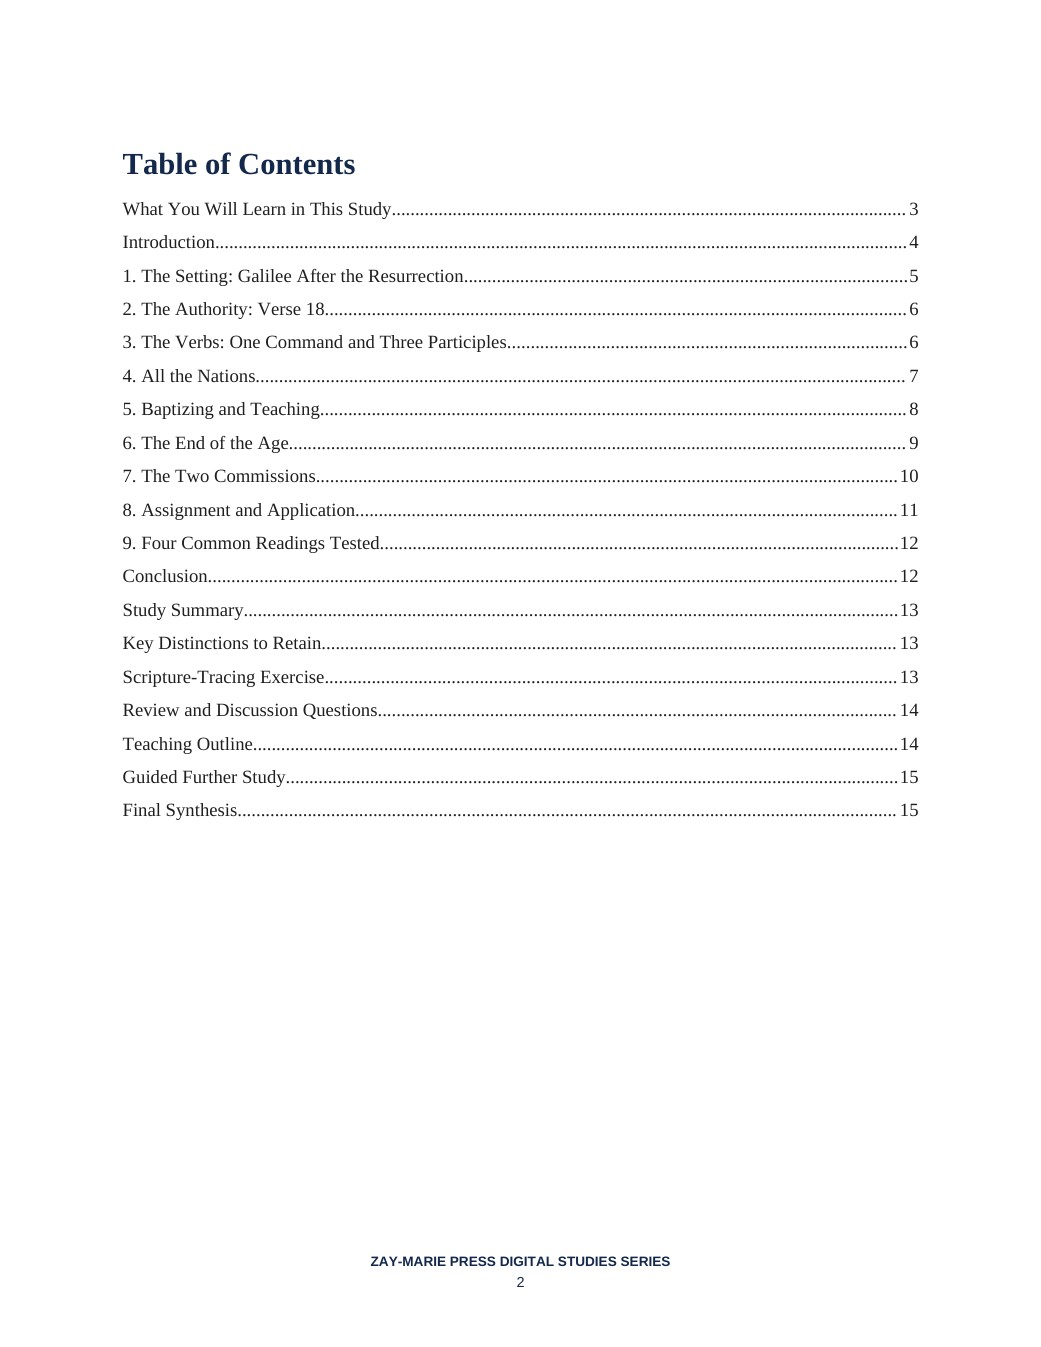
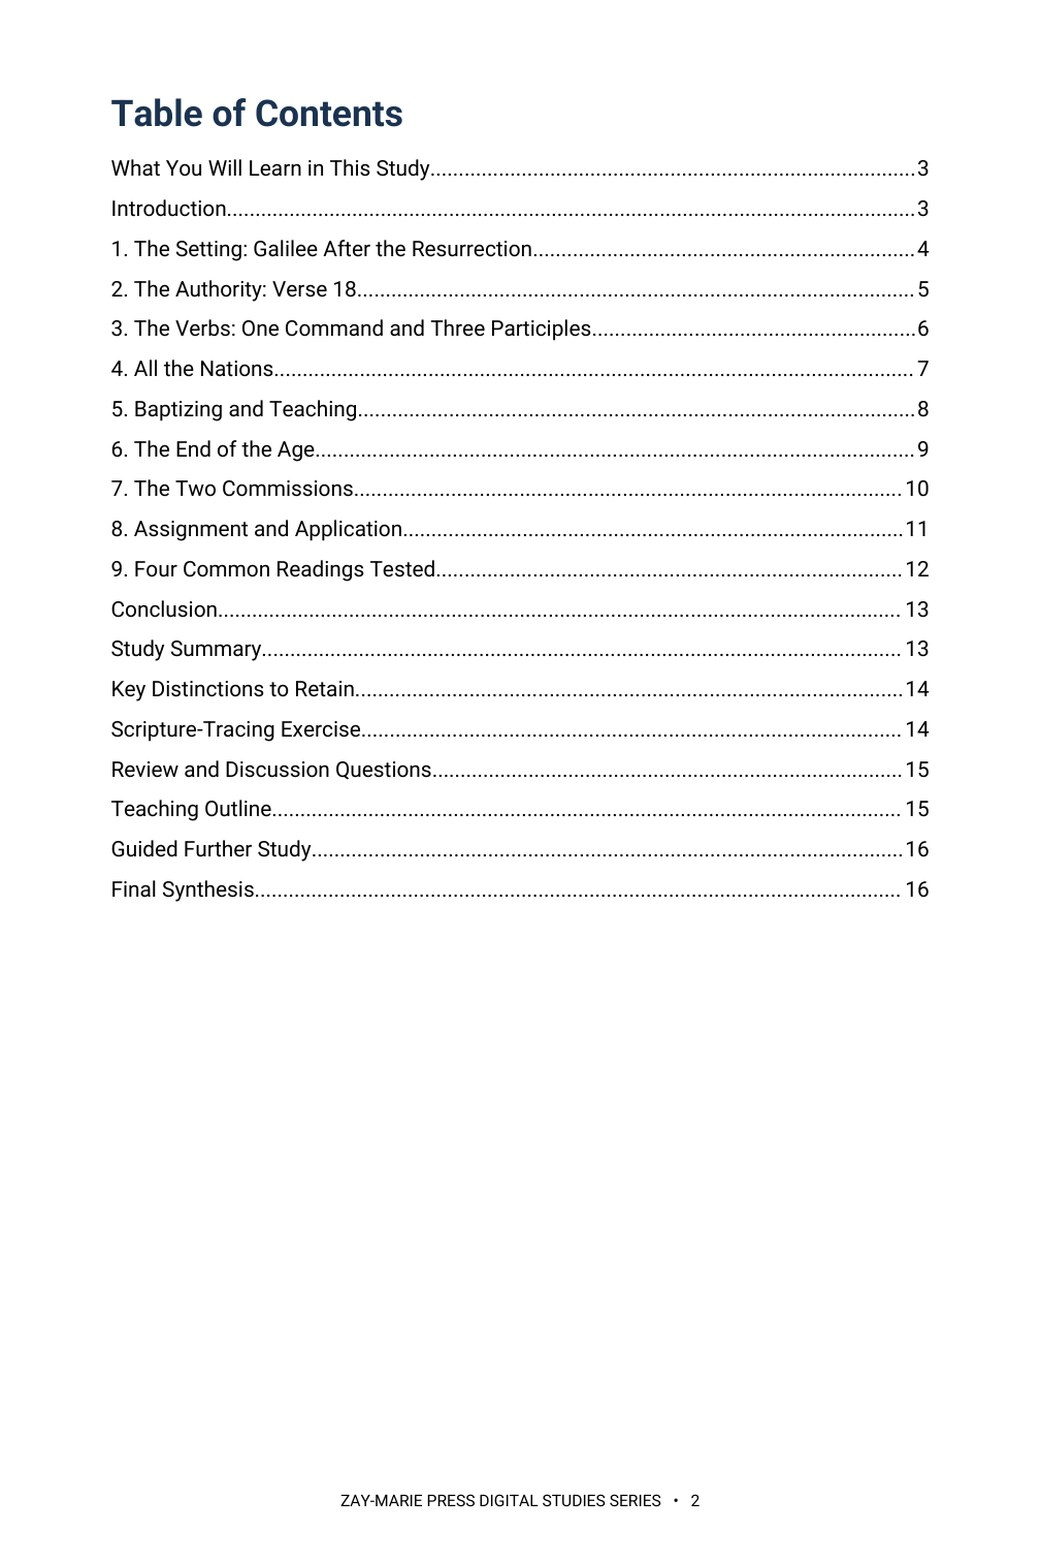
Study 66: rebuilt in Roboto at 10 pt, 16 pages; previews and trackers updated
Claude-Session: https://claude.ai/code/session_01HC7bs9KYP2scp4hCL6DkTp

diff --git a/CLAUDE.md b/CLAUDE.md
@@ -23,7 +23,7 @@ These are kept in the repo at `controlling-documents/` and are the current versi
 - As of v1.50 (publisher directive, 2026-10-03), the **What You Will Learn in This Study** section is always bulleted, never set as running paragraphs, written into this file in the same pass (Master Standard Section 3 item 4, Section 6 structure line, Section 22): a list of bullet points, each describing one process, textual marker or interpretive discipline the reader will practice (Section 17 still governs what they may say); at most one short lead-in line may stand above the bullets (for example, “By the end of this study, you should be able to:”); the Study Goal callout and the Study Outline keep their own forms. It governs every new study and every study rebuilt or retrofitted from now on; earlier studies take it when reopened or when the publisher directs. In every study check (Step 1), report whether the section is bulleted. First applied to Study 43.
 **`controlling-documents/Digital_Studies_Relationship_Map_v1.39.md`** — records each study's distinct subject, its related studies, the eight priced six-study collections, the Paul's Missionary Journeys cross-reference map, and the five primary catalog categories (currently version 1.39, covers Studies 1–71; update it as new studies publish, bump the version number, rename the file to match, and log the change in its own version-history table — mirroring the Master Standard's `_vX.Y` filename convention). Check a proposed topic against it before recommending or writing a new study. (2026-09-28: the file was missing from this repo despite this note referencing it; replaced from the publisher's copy and bumped v1.15→v1.25 in the same pass. If this note ever again points to a version not present under `controlling-documents/`, ask the publisher for a copy rather than proceeding without the check.)
 - **`controlling-documents/Digital_Studies_Category_Standard_v1.1.md`** — FINAL and binding (publisher, 2026-10-01): the rules for the five primary catalog categories (Foundations, Israel & Prophecy, Body of Christ, Passages, Doctrinal Themes), the ordered decision procedure for new studies, the precedents, all 71 fixed assignments, and the cover-label form for each category. Read it before placing any card or cover label. Do not ask the publisher where a study belongs; apply the procedure and state the result. Only the publisher changes a ruling; then bump this Standard's version and filename, re-letter the cover, and update the Relationship Map.
-- **`controlling-documents/Doctrinal_Upgrade_Retrofit_Plan_v1.88.md`** — working tracker for retrofitting Studies 1–59 to the 2026-10-02 doctrinal upgrade (Framework/PAM v1.1, Master Standard v1.40, Rules 7–17): withdrawn-wording search keys, impact tiers, waves and the per-study method. Read it before continuing the retrofit in any session; update status, bump the version and rename the file as work proceeds.
+- **`controlling-documents/Doctrinal_Upgrade_Retrofit_Plan_v1.89.md`** — working tracker for retrofitting Studies 1–59 to the 2026-10-02 doctrinal upgrade (Framework/PAM v1.1, Master Standard v1.40, Rules 7–17): withdrawn-wording search keys, impact tiers, waves and the per-study method. Read it before continuing the retrofit in any session; update status, bump the version and rename the file as work proceeds.
 - **`controlling-documents/Doctrinal_Packet_Standard_v0.3.md`** — Doctrinal Packet Standard (DRAFT; §7 approved). Governs the separate Doctrinal Packets product strand (5-page interpretive PDFs per Bible book — a print-friendly cover as page 1 plus 4 content pages, $2.99, KJV, pilot: Genesis, live at `packet-genesis.html`, hub `doctrinal-packets.html`; site pages say "5 Pages", cover styles live in `packets.css`, Old Testament blue and New Testament soft pale green, hub listed in Bible order). **Preview rule (publisher directive, 2026-09-29, packets only):** previews show about one page's worth in two cropped views (top of page 1 through the anchor texts; the chart section) — never the exegesis, architecture, Mystery contrast, logic chain, outline, or closing. Master Standard §16/§17 still govern Digital Studies. Bump the version and rename the file as the Standard is finalized.
 - **`controlling-documents/Preview_Page_Spoiler_Retrofit_Audit_v1.4.md`** — working tracker for the Studies 1–60 preview-page conclusion-spoiler retrofit (see the section below). Read it before continuing that audit in any session; update its status fields and changelog, bump the version, and rename the file to match as the audit proceeds — same `_vX.Y` convention as the other controlling documents. As of v1.1, the website-side half was DONE: all 60 studies' "What You'll Study" text was judged against the rule (methodology documented in the file) and 22 points across 11 studies were rewritten and pushed; an unrelated Study 22 content bug (Study 21's content had leaked into it) was also found and fixed. As of v1.2, the publisher supplied Studies 1–60's interior production PDFs and the interior-PDF half was also surveyed (read-only): 10 studies (37, 41, 45, 47, 48, 49, 51, 52, 53, 54) were found to have at least one interior "What You Will Learn" violation, 50 studies were confirmed compliant, and the orphaned `assets/study-45-sanctification-under-grace.docx` (removed from the repo per the publisher in v1.0) was confirmed word-for-word identical to Study 45's actual production interior PDF content. As of v1.3, the publisher supplied editable DOCX sources for all 10 violating studies; all 15 violating points were rewritten and approved, delivered as corrected final PDFs, and — along the way — a second defect was found and fixed (Studies 47 and 48's source DOCX still had an unintegrated cover placeholder despite both being long-published live with real covers; fixed by inserting the existing approved cover art). The website's "What You Will Learn" preview image (`study-NN-page-3.jpg`) was regenerated from the corrected content for all 10 studies and pushed to `main` (commit `cea1859`), verified against a fresh clone. **The website side of this audit is now fully compliant for all 60 studies.** Outstanding: the publisher's purchasable interior PDF files themselves have corrected versions delivered, but distribution to existing purchasers was decided by the publisher on 2026-09-29: silent swap of the files behind the existing downloads, no reissue notice (recorded in the v1.4 changelog entry; the product files are not in this repo).
 

diff --git a/controlling-documents/Doctrinal_Upgrade_Retrofit_Plan_v1.89.md b/controlling-documents/Doctrinal_Upgrade_Retrofit_Plan_v1.89.md
@@ -181,3 +181,4 @@ Working tracker for correcting published studies to the Framework/PAM v1.1, Mast
 - v1.86 (2026-10-03): Study 64 rebuilt in Roboto at 10 pt on the current page from the publisher's Sep 28 PDF (no DOCX or approved FINAL supplied; text taken from the PDF word for word), 17 pages (cover plus 16; was 16). Changes: What You Will Learn set as bullets under one lead-in (the two-sentence intro and the closing line removed; bullet 6 reworded to a process line); eight callouts reduced to five (Setting Before Scene, Word Evidence and A Scene at the Threshold became run-ins); reader-facing wording ('the governing framework of this series' and 'Within this series’ framework … classified there' removed; 'controlling framework' to 'controlling questions'); the Sep 28 neutral stance on the Body's presence at the supper ('neither affirms nor denies') replaced with the standing ruling that the Body of Christ does not appear in Revelation's prophetic scenes (section 5.3 and the Conclusion); 'kekleimenoi' corrected to 'keklēmenoi'; Teaching Outline typed 1–8; lead-in lines kept with their tables; cover from the repo (ISRAEL, PROPHECY & COVENANTS); no KJV table added. The guest classification (those invited to witness the wife's union) remains the publisher's 2026-09-28 directive for this study. Live previews re-rendered (2, 3, 5); page text 17 Pages / 17-page digital PDF / 16-page numbered interior.
 - v1.87 (2026-10-03): Study 65 rebuilt in Roboto at 10 pt on the current page from the publisher's PDF (no DOCX or approved FINAL supplied; text taken from the PDF word for word), 17 pages (cover plus 16; was 16). Changes: What You Will Learn set as bullets under one lead-in (closing paragraph removed; bullet 6 reworded to a process line); eight callouts reduced to five (Setting Before Verse, The Word in Its Company and The Four in Their Place became run-in paragraphs, wording unchanged); Teaching Outline numerals changed to 1–8; split Four Common Readings table merged; reader-facing wording: the 7.1 "framework of this series" sentence and "controlling framework" replaced. No withdrawn doctrinal wording found. Previews 2, 3 and 5 re-rendered; site.js and page text updated.
 - v1.88 (2026-10-03): Study 65 correction. The v1.87 build was set in the wrong typeface by a fontconfig fault; rebuilt in Roboto (pdffonts confirms Roboto Regular, Bold and Italic only). Page count is 16 (cover plus 15), not 17; site.js, page text and previews 2, 3 and 5 updated. Content edits as logged in v1.87 are unchanged. Every later build is checked with pdffonts.
+- v1.89 (2026-10-03): Study 66 rebuilt in Roboto at 10 pt on the current page from the publisher's PDF (no DOCX or approved FINAL supplied; text taken from the PDF word for word), 16 pages (cover plus 15; unchanged). Changes: What You Will Learn set as bullets under one lead-in (closing paragraph removed; bullet 7 reworded to a process line); nine callouts reduced to five (Setting Before Command, Authority Before Assignment, One Command and The Age Matthew Names became run-in paragraphs, wording unchanged); Teaching Outline numerals changed to 1–8; split end-of-the-age table merged; reader-facing wording: "framework of this series" (6.3, 7.1), "the framework's treatment of Acts 28" and "controlling framework" replaced. No withdrawn doctrinal wording found. pdffonts confirms Roboto only. Previews 2, 3 and 5 re-rendered.

diff --git a/controlling-documents/Digital_Studies_PAM_Audit_v1.183.md b/controlling-documents/Digital_Studies_PAM_Audit_v1.183.md
@@ -412,3 +412,4 @@ Study 15 PDF not yet supplied. Typography: none of Studies 2, 3, 6, 8 is in EB G
 - v1.180 (2026-10-03): Study 64 rebuilt in Roboto at 10 pt, 17 pages; Body-absent-from-Revelation wording applied (see Retrofit Plan v1.86).
 - v1.181 (2026-10-03): Study 65 rebuilt in Roboto at 10 pt, 17 pages (see Retrofit Plan v1.87).
 - v1.182 (2026-10-03): Study 65 corrected to Roboto, 16 pages (see Retrofit Plan v1.88).
+- v1.183 (2026-10-03): Study 66 rebuilt in Roboto at 10 pt, 16 pages (see Retrofit Plan v1.89).
